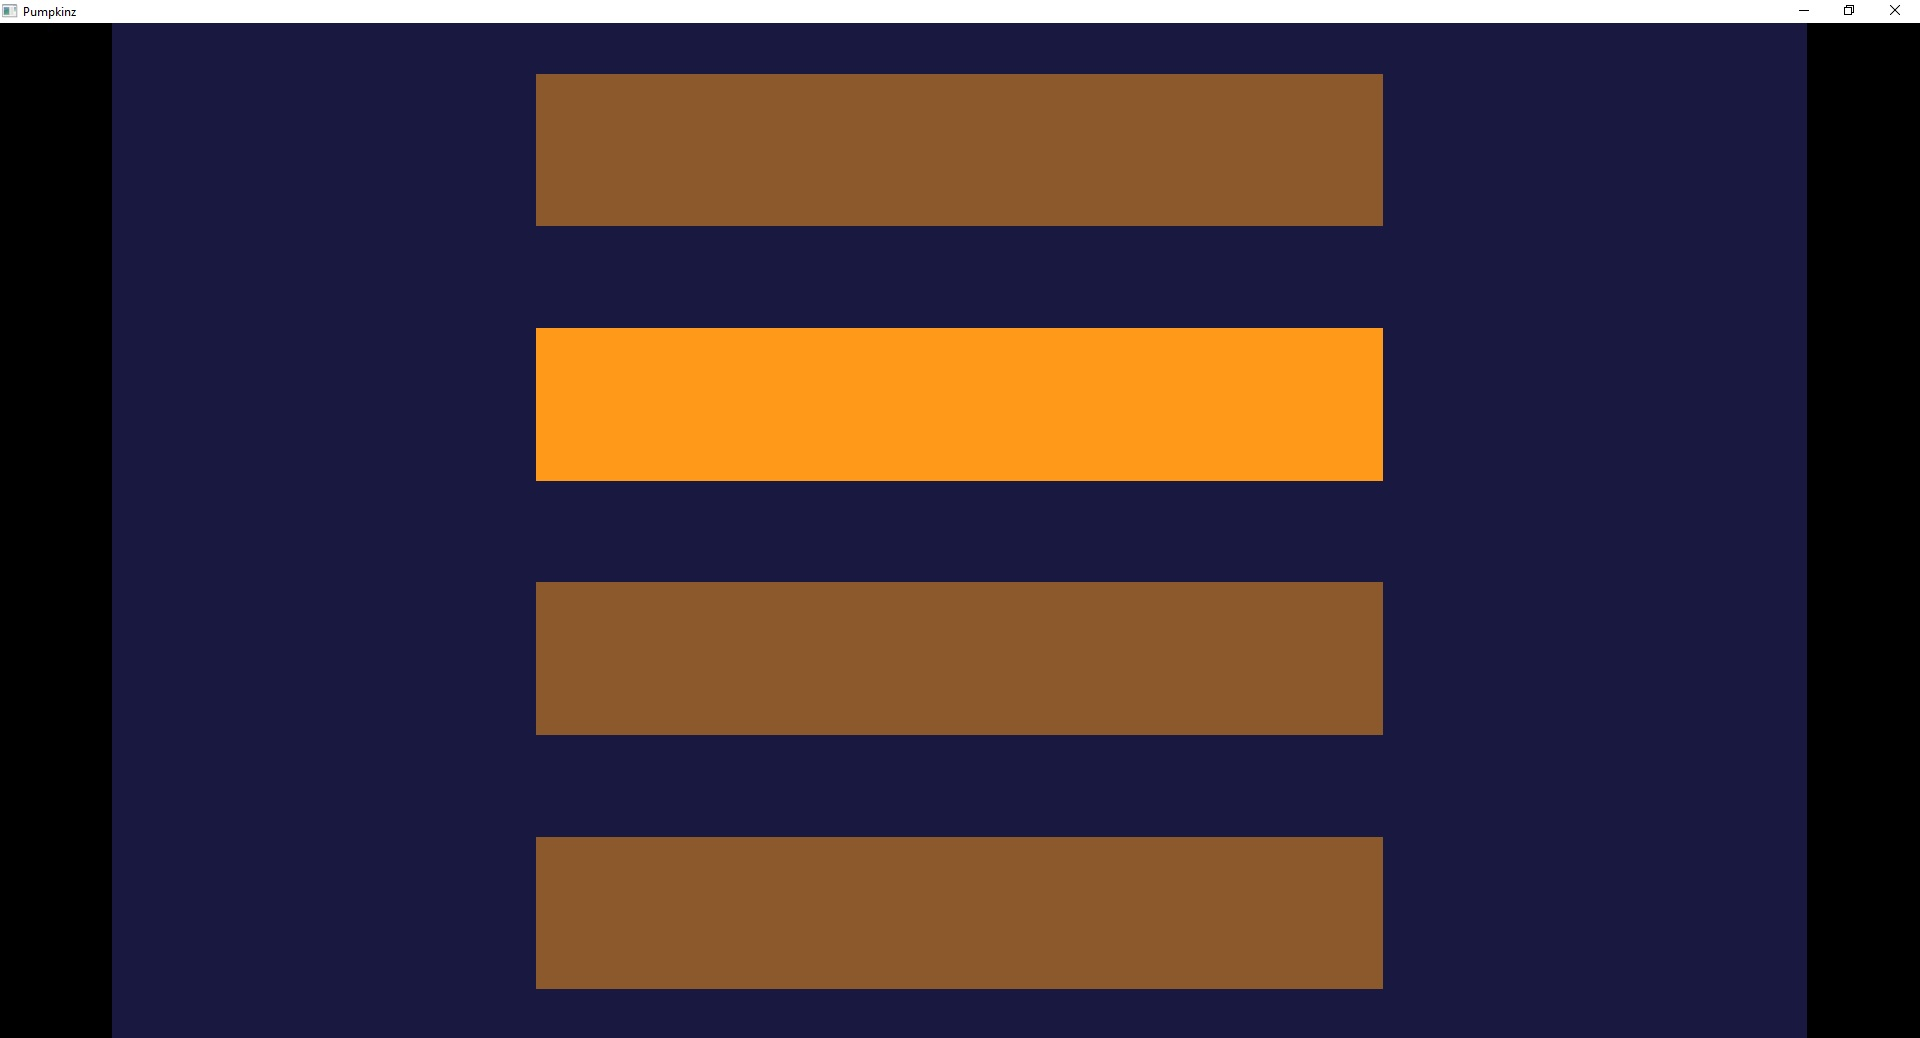
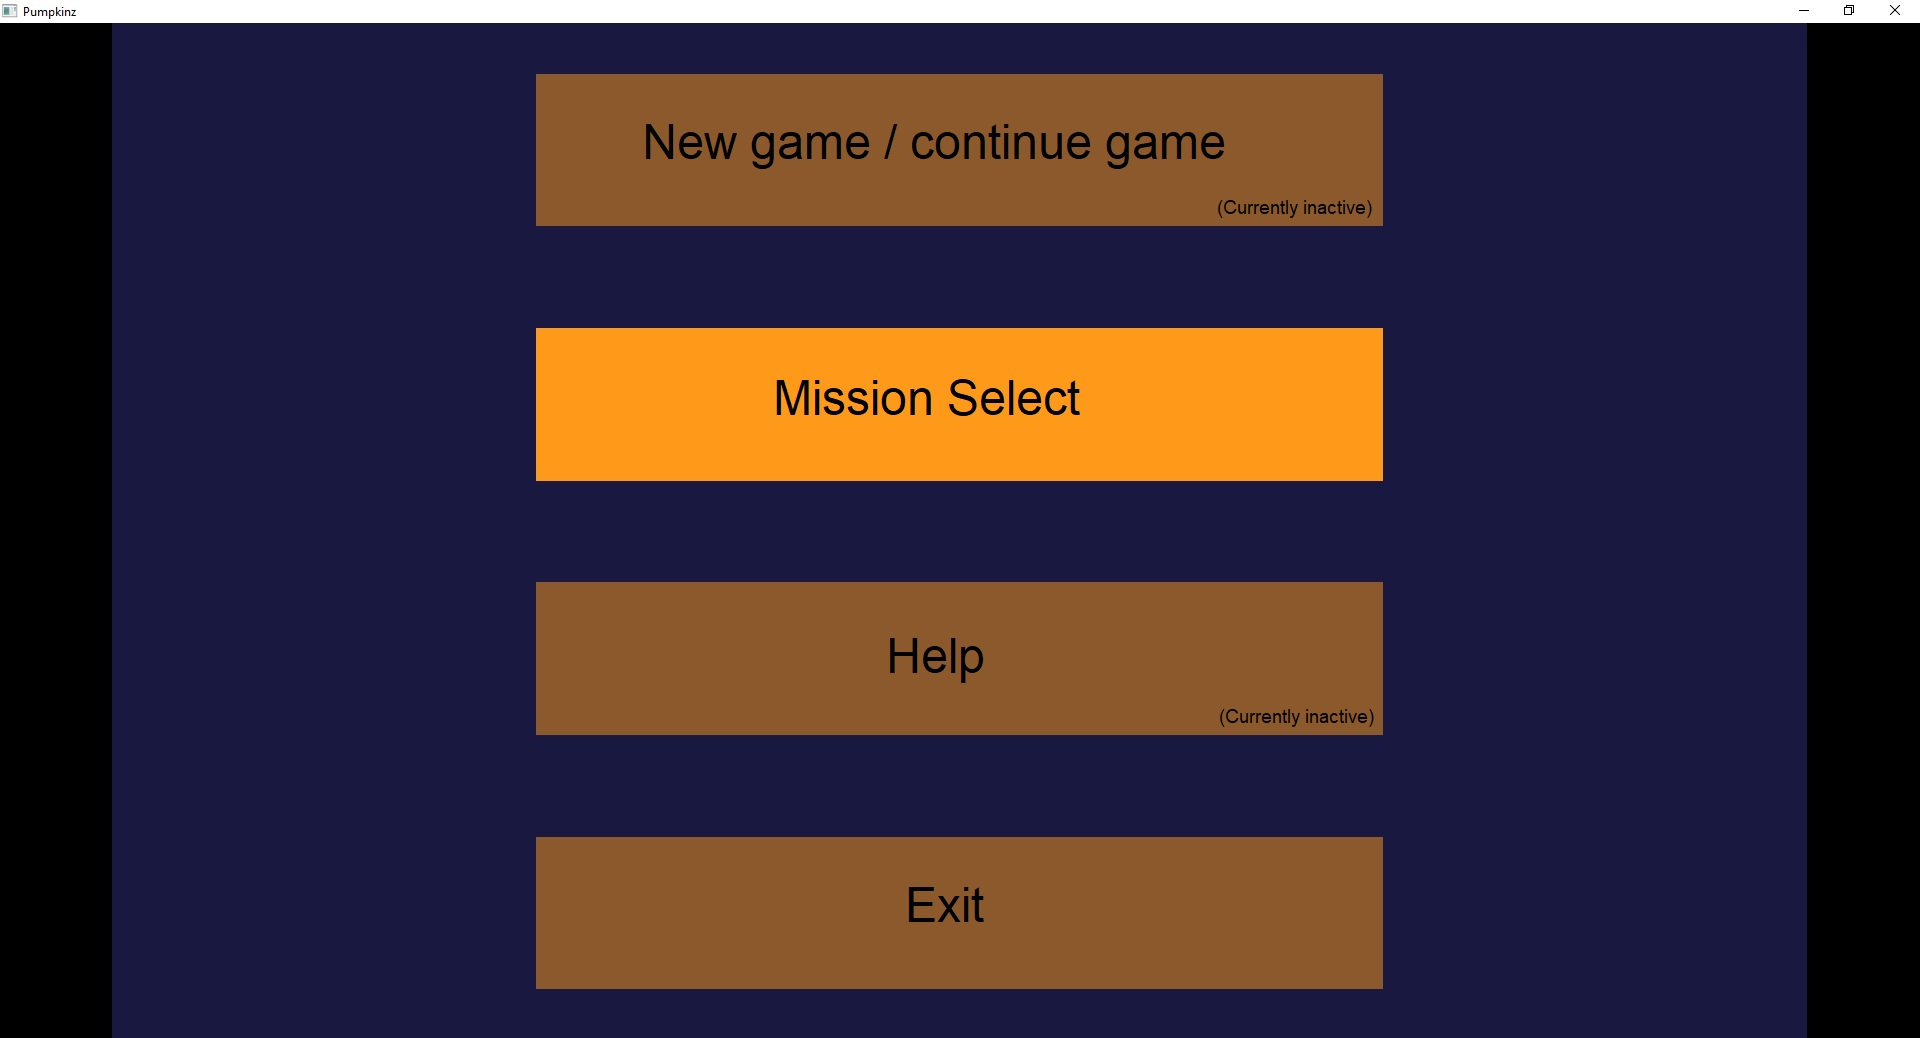
Phase 4: Update menu guide

diff --git a/Documents/README.md b/Documents/README.md
@@ -1,16 +1,46 @@
-# Main Menu
+# Preamble
+
+As the game is a WIP the below will end up chaning and will be updated with the game itself.
+
+# Menu navigation
+
+Text and unique colouring on menu buttons have yet to be implemented (lower priority).
+This guide has been written to help you understand how to navigate and play the game.
+
+## Main Menu
 
 ![main_menu_img](./Images/main_menu.jpg)
 
+- ```New game/continue game``` -- Not implemented yet
+- ```Mission select``` -- Opens region select menu
+- ```Help/Tutorial``` -- Not implemented yet
+- ```Exit``` -- Kills the program
 
-# Region Menu
+## Region Menu
 
 ![region_menu_img](./Images/region_menu.jpg)
 
-# Mission Menu
+- ```Pumpkin patch``` -- Contains 1 active mission
+- ```Haunted house``` -- No active missions
+- ```Cemetery``` -- No active missions
+- ```Cursed forest``` -- No active missions
+- ```Vampire castle``` -- No active missions
+- ```Return to menu``` -- Returns to main menu
+
+As of now only mission 5 of the pumpkin patch region is active.
+It runs a demo mission that uses all the currently implemented enemy types.
+
+## Mission Menu
 
 ![mission_menu_img](./Images/mission_menu.jpg)
+
+- ```Mission select (1-15)``` -- Runs that mission if it's implemented
+- ```Left/Right sliders``` -- Not implemented but will shift the displayed missions by +/- 15
+- ```Mission select``` -- Returns to region menu
+- ```Main menu``` -- Returns to main menu
 
 # In game
 
 ![in_game_img](./Images/in_game.jpg)
+
+When in game you can press ```Esc``` to return to the mission menu.
